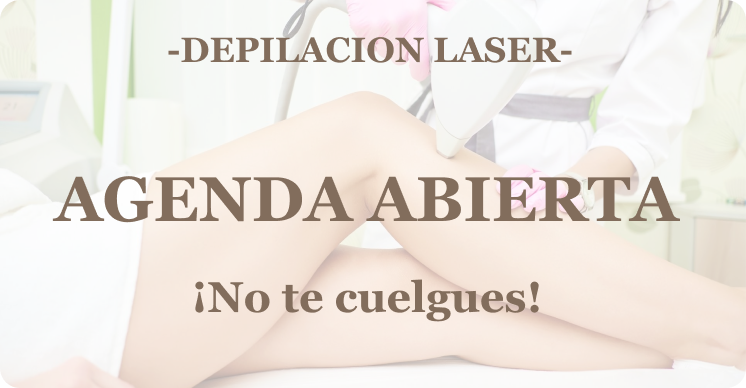
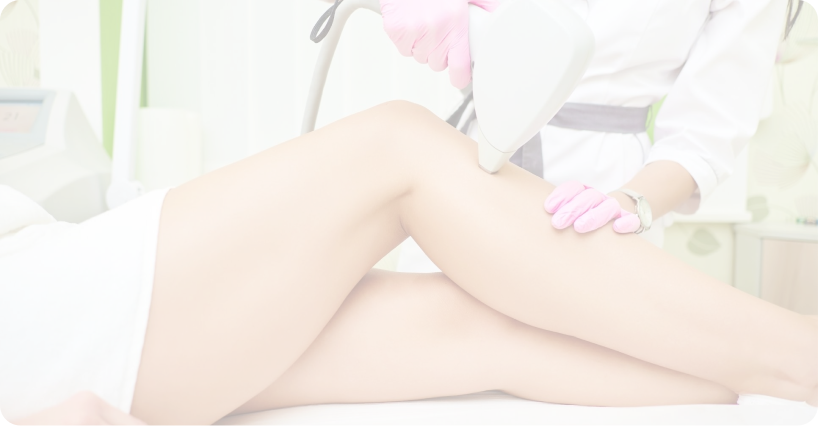
Change blog view

diff --git a/pages/blog.html b/pages/blog.html
@@ -67,19 +67,73 @@
   </div>
   <!-- Blog -->
   <main>
-    <div class="blogContainer">
-      <div class="blogSection1">
-        <a href="#"><img src="../assets/images/otoño.png"></a>
+    <div class="row row-cols-1 row-cols-md-2 g-4 justify-content-evenly">
+    <div class="card background mb-2 text-center" style="width: 45rem;">
+      <img src="../assets/images/agenda.png" class="card-img-top" alt="...">
+      <div class="card-body">
+        <h2 class="card-title text">Depilacion definitiva!</h2>
+        <p class="card-text text">Abrimos la agenda del mes de Octubre. No te cuelgues!</p>
+        <a href="./turnos.html" class="button1">Reservá tu turno</a>
       </div>
-      <section class="blogSection1">
-        <a href="#"> <img src="../assets/images/agenda.png"></a>
-        <div class="blogSection2">
-          <a href="#"> <img src="../assets/images/himfuOCrio.png"> </a>
-          <a href="#"> <img src="../assets/images/reiki.png"> </a>
-        </div>
-      </section>
     </div>
-
+    <div class="card background mb-2text-center" style="width: 19rem;">
+      <img src="../assets/images/reiki.png" class="card-img-top" alt="persona recibiendo reiki">
+      <div class="card-body">
+        <h2 class="card-title text">Reiki</h2>
+        <p class="card-text text">5 beneficios que no sabías sobre el Reiki.</p>
+        <a href="#" class="button1">Lee la nota completa aca.</a>
+      </div>
+    </div>
+    <div class="card background mb-2 text-center" style="width: 19rem;">
+      <img src="../assets/images/himfuOCrio.png" class="card-img-top" alt="...">
+      <div class="card-body">
+        <h2 class="card-title text"> ¿Himfu o Criofrecuencia?</h2>
+        <p class="card-text text">Conocé los beneficios de cada terapia.</p>
+        <a href="#" class="button1">Lee la nota completa aca</a>
+      </div>
+    </div>
+  </div>
+  <!-- <div class="card" style="width: 18rem;">
+    <img src="../assets/images/otoño.png" class="card-img-top" alt="...">
+    <div class="card-body">
+      <h5 class="card-title">Tips para cuidar tu puel en verano</h5>
+      <p class="card-text">Enterate de los mejores tips para cuidar tu piel del sol.</p>
+      <a href="#" class="btn btn-primary">Lee la nota completa aca</a>
+    </div>
+  </div> -->
+    <!-- <div class="blogContainer">
+      <div class="blogSection1">
+        <div class="content">
+          <h2><b>TIPS PARA CUIDAR TU PIEL EN - OTOÑO - </b></h2>
+          <a href="#"><img src="../assets/images/otoño.png"></a>
+        </div>
+      </div>
+  
+      <div class="blogSection2">
+        <div class="content">
+          <p>- AGENDA ABIERTA -</p>
+          <h2><b>DEPILACION LASER</b></h2>
+          <P>¡No te cuelgues!</P>
+          <a href="#"><img src="../assets/images/agenda.png"></a>
+        </div>
+      </div>
+  
+      <div class="blogSection4">
+        <div class="content">
+          <h2><b>¿Himfu o Criofrecuencia?</b></h2>
+          <p>Conocé los beneficios de cada terapia</p>
+          <a href="#"><img src="../assets/images/himfuOCrio.png"></a>
+        </div>
+      </div>
+  
+      <div class="blogSection5">
+        <div class="content">
+          <h2><b>5 BENEFICIOS DEL <br>- REIKI -</b></h2>
+          <a href="#"><img src="../assets/images/reiki.png"></a>
+        </div>
+      </div>
+    </div> -->
+  
     <a href="https://api.whatsapp.com/send/?phone=1535024321" target="_blank">
       <img src="../assets/images/Whatsapp.png" class="wsp" alt="logo de whatsapp">
     </a>

diff --git a/pages/estetica.html b/pages/estetica.html
@@ -168,14 +168,33 @@
       <!-- Images -->
       <div class="esteticaSection2">
         <h3 class="depiLaserSubTitle">Conoce todos los tratamientos para vos</h3>
-        <img class="crio" src="../assets/images/esteticaCriolipolisis.png"
-          srcset="../assets/images/esteticaCriolipolisis.png 1450w, ../assets/images/crio.png 320w"
-          sizes="(max-width: 320px) 100vw, 1450px" alt="como funciona la Criolipolisis">
-        <img src="../assets/images/esteticaHombres.jpg" alt="conoce los tratamientos para hombres" class="notShow">
-        <img src="../assets/images/esteticaHimfu.jpg"
-          srcset="../assets/images/esteticaHimfu.jpg 1450w, ../assets/images/himfu.png 320w"
-          sizes="(max-width: 320px) 100vw, 1450px" alt="beneficios del Himfu">
+        
+        <div class="container">
+          <div class="content">
+            <h2>Como funciona la <br> <b>- Criolipolisis -</b></h2>
+          </div>
+          <img class="imagen" src="../assets/images/esteticaCriolipolisis.png"
+            srcset="../assets/images/esteticaCriolipolisis.png 1450w, ../assets/images/crio.png 320w"
+            sizes="(max-width: 320px) 100vw, 1450px" alt="como funciona la Criolipolisis">
+        </div>
+        
+        <div class="container">
+          <div class="content">
+            <h2><b>Conoce todos los tratamientos para hombres</b> </h2>
+          </div>
+          <img class="imagen" src="../assets/images/esteticaHombres.png" alt="conoce los tratamientos para hombres" class="notShow">
+        </div>
+        
+        <div class="container">
+          <div class="content">
+            <h2>5 beneficios del <br><b>- Himfu -</b> </h2>
+          </div>
+          <img class="imagen" src="../assets/images/esteticaHimfu.png"
+            srcset="../assets/images/esteticaHimfu.png 1450w, ../assets/images/himfu.png 320w"
+            sizes="(max-width: 320px) 100vw, 1450px" alt="beneficios del Himfu">
+        </div>
       </div>
+      
 
     </div>
     <!-- Acction Button -->

diff --git a/css/style.css b/css/style.css
@@ -557,6 +557,7 @@ footer .brand {
   flex-direction: column;
   justify-self: center;
   align-self: center;
+  text-align: center;
 }
 .depiContainer .esteticaSection2 h3 {
   margin-bottom: 15px;
@@ -564,9 +565,25 @@ footer .brand {
   font-weight: normal;
   color: #826d5c;
 }
-.depiContainer .esteticaSection2 img {
-  margin: 10px;
-  border-radius: 10px;
+
+.container {
+  position: relative;
+  text-align: center;
+  margin-bottom: 20px;
+}
+.container .content {
+  position: absolute;
+  top: 50%;
+  left: 50%;
+  transform: translate(-50%, -50%);
+  padding: 20px;
+  color: #826d5c;
+  font-weight: bolder;
+}
+.container .imagen {
+  display: block;
+  max-width: 100%;
+  height: auto;
 }
 
 .esteticaBeneficios {
@@ -629,42 +646,14 @@ footer .brand {
     margin: 3rem;
   }
 }
-.blogContainer {
-  display: flex;
-  justify-content: center;
-  align-items: center;
-}
-.blogContainer .blogSection1 {
-  padding: 10px;
-}
-.blogContainer .blogSection2 {
-  padding-top: 20px;
+.background {
+  background-color: #fffaf6;
 }
 
-@media (max-width: 1024px) {
-  .blogContainer {
-    flex-direction: column;
-  }
+.text {
+  color: #826d5c;
 }
-@media (max-width: 425px) {
-  .blogContainer {
-    flex-direction: column;
-  }
-  .blogContainer a {
-    margin: 20px;
-  }
-  .blogContainer img {
-    width: 90%;
-    margin-bottom: 20px;
-  }
-  .blogContainer img .blogSection1 {
-    align-items: center;
-    width: 80%;
-  }
-  .blogContainer img .blogSection2 {
-    align-items: center;
-  }
-}
+
 .contactContainer {
   display: flex;
   justify-content: space-between;

diff --git a/scss/pages/_blog.scss b/scss/pages/_blog.scss
@@ -1,54 +1,6 @@
-.blogContainer {
-  display: flex;
-  justify-content: center;
-  align-items: center;
-
-  .blogSection1 {
-    padding: 10px;
-  }
-
-  .blogSection2 {
-    padding-top: 20px;
-  }
+.background{
+  background-color: $backgroundColor;
 }
-
-@media (max-width: 1024px) {
-  .blogContainer {
-    flex-direction: column;
-  }
+.text{
+  color: $fontColor;
 }
-
-@media (max-width: 425px) {
-  .blogContainer {
-    flex-direction: column;
-
-    a {
-      margin: 20px;
-    }
-
-    img {
-      width: 90%;
-      margin-bottom: 20px;
-
-      .blogSection1 {
-        align-items: center;
-        width: 80%;
-      }
-
-      .blogSection2 {
-        align-items: center;
-      }
-    }
-  }
-}
-
-// }
-// @media (min-width: 1024px){
-//   .blogContainer{
-//     display: flex;
-//     align-items: center;
-//     img{
-//       width: 15rem;
-//     }
-//   }
-// }

diff --git a/scss/pages/_estetica.scss b/scss/pages/_estetica.scss
@@ -32,6 +32,7 @@
     flex-direction: column;
     justify-self: center;
     align-self: center;
+    text-align: center;
 
     h3 {
       margin-bottom: 15px;
@@ -39,12 +40,27 @@
       font-weight: normal;
       color: $fontColor;
     }
-
-    img {
-      margin: 10px;
-      border-radius: 10px;
-    }
   }
+}
+.container {
+  position: relative;
+  text-align: center;
+  margin-bottom: 20px;
+
+.content {
+  position: absolute;
+    top: 50%; 
+    left: 50%;
+    transform: translate(-50%, -50%);
+    padding: 20px;
+    color: $fontColor;
+    font-weight: bolder;
+}
+.imagen {
+  display: block;
+    max-width: 100%;
+    height: auto;
+}
 }
 
 .esteticaBeneficios {

diff --git a/pages/turnos.html b/pages/turnos.html
@@ -97,6 +97,7 @@
 
     <a href="https://api.whatsapp.com/send/?phone=1535024321" target="_blank">
       <img src="../assets/images/Whatsapp.png" class="wsp">
+    </a>
   </main>
   <!-- Footer -->
   <footer class="d-flex flex-fill">
